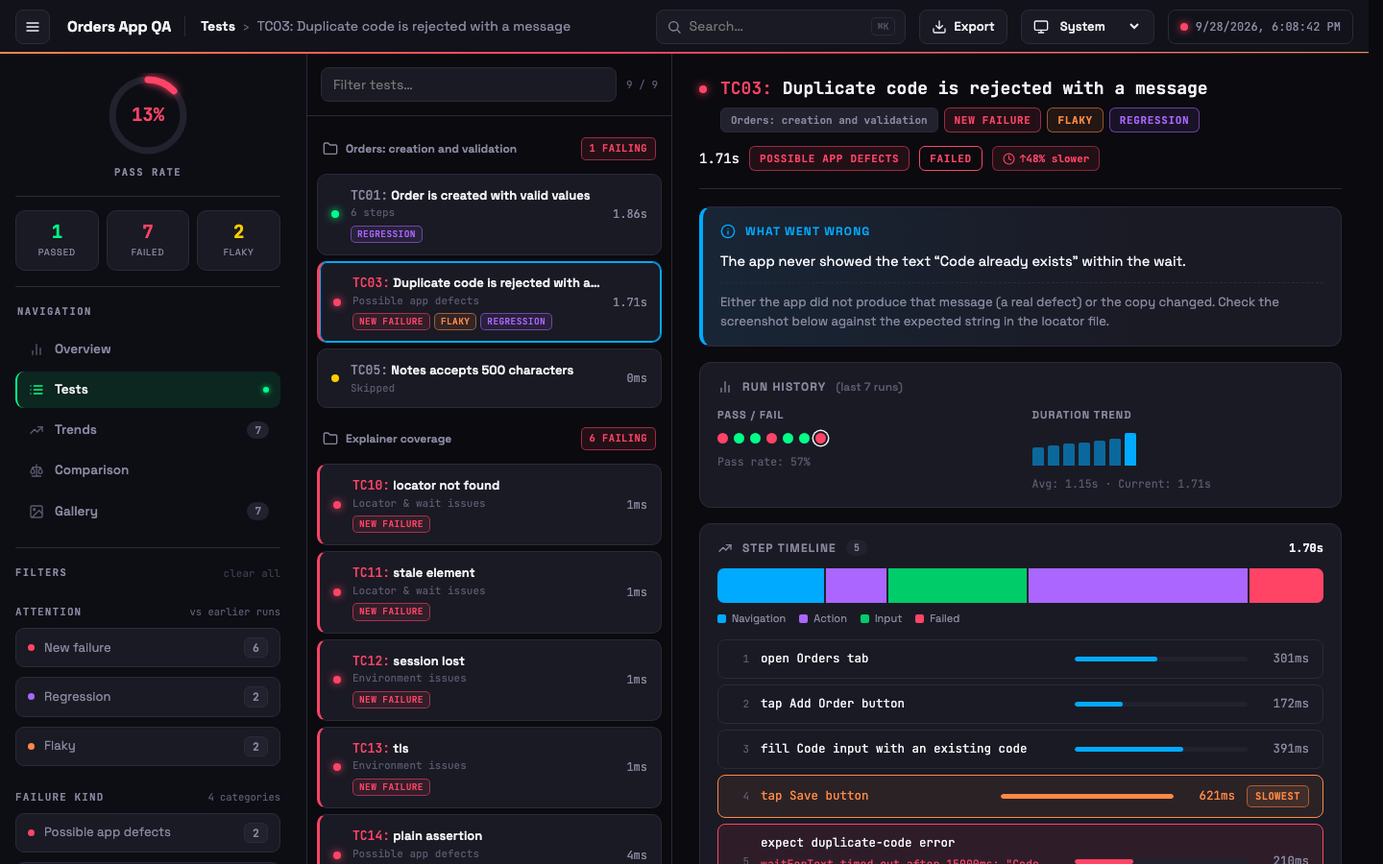
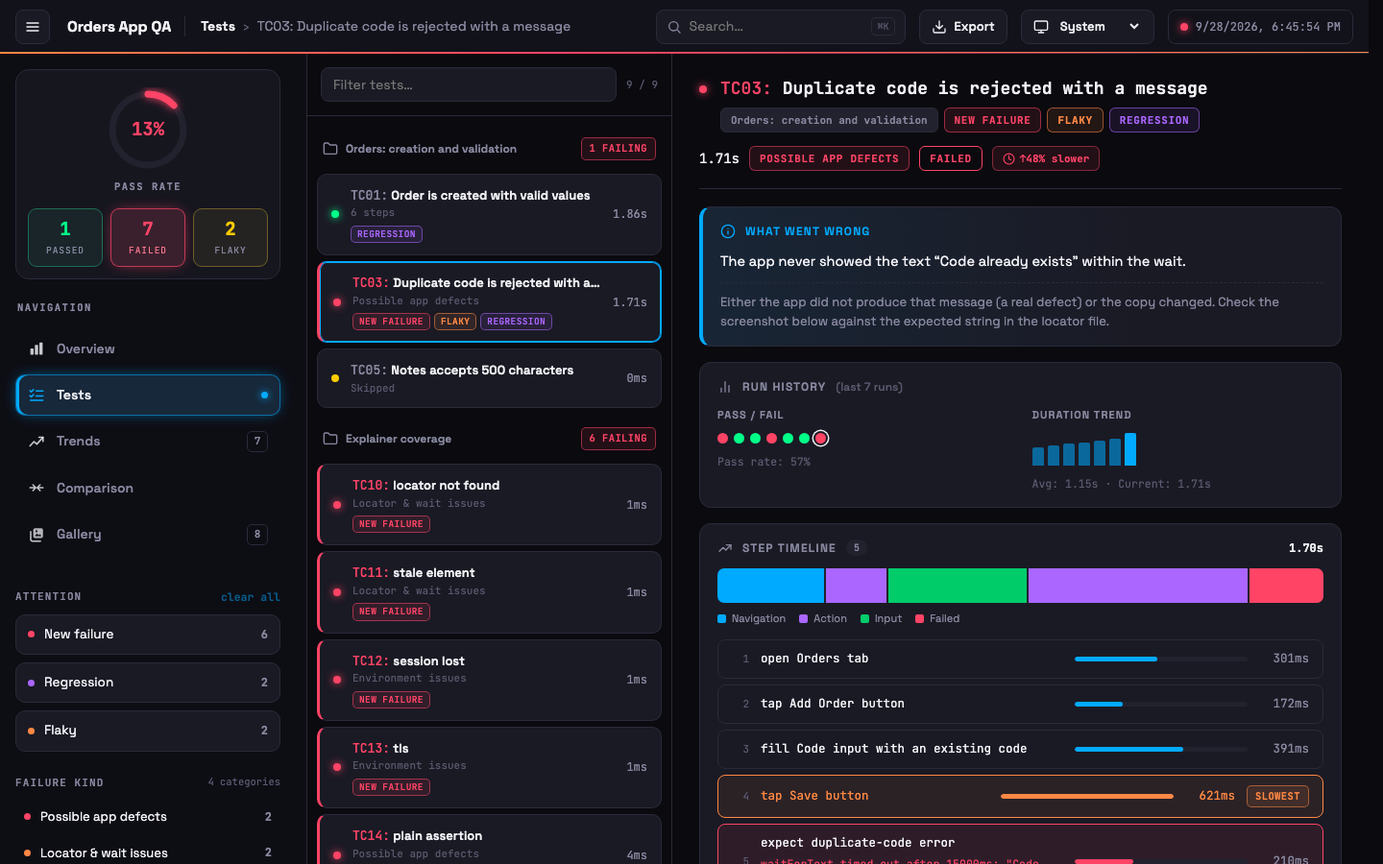
Refresh the sidebar's look
Group the pass ring and the Passed / Failed / Flaky tiles in one card,
tint each tile's border in its colour and make Failed stand out when
there are failures. Give the navigation solid, clearer icons, a blue
outlined and glowing active page, and square count badges. Move "clear
all" onto the first filter group's line and drop the separate Filters
heading. Attention rows stay boxed with plain counts; Failure kind and
Suite groups become lighter borderless rows that only box when hovered
or chosen. Refresh the README screenshots, which all show the sidebar.

diff --git a/test/fixtures/expected-report.html b/test/fixtures/expected-report.html
@@ -66,45 +66,52 @@ kbd{font-family:var(--mono);font-size:10px;border:1px solid var(--border);border
 .side{background:var(--side);border-right:1px solid var(--border);position:sticky;top:var(--top-h);height:calc(100vh - var(--top-h));display:flex;flex-direction:column;min-height:0}
 .side-scroll{flex:1;min-height:0;overflow-y:auto;scrollbar-gutter:stable;padding:0 12px 20px 16px}
 .side .lbl{font-family:var(--mono);font-size:10.5px;font-weight:700;letter-spacing:.14em;color:var(--fg2)}
-.side-ring{display:grid;justify-items:center;gap:8px;padding:20px 0 16px;border-bottom:1px solid var(--border)}
+.side-top{margin:16px 0 4px;padding:16px 12px 12px;border:1px solid var(--border);border-radius:14px;background:color-mix(in srgb,var(--card) 70%,var(--side))}
+.side-ring{display:grid;justify-items:center;gap:8px;padding:2px 0 14px}
 .side-ring .ring{width:88px;height:88px}
 /* navigation */
-.nav{padding:18px 0;border-bottom:1px solid var(--border);display:grid;gap:4px}
+.nav{padding:18px 0 16px;display:grid;gap:5px}
 .nav .lbl{padding:0 2px 8px}
-.nav a{display:flex;align-items:center;gap:11px;padding:9px 12px;border-radius:9px;border-left:2px solid transparent;color:var(--fg2);font-weight:500;font-size:13.5px}
-.nav a .i{color:var(--mut)}
+.nav a{display:flex;align-items:center;gap:12px;padding:10px 12px;border-radius:10px;border:1px solid transparent;color:var(--fg2);font-weight:500;font-size:14px}
+.nav a .i{width:18px;height:18px;color:color-mix(in srgb,var(--fg) 82%,transparent)}
 .nav a:hover{background:var(--hover);color:var(--fg)}
 .nav a span{flex:1}
-.nav a i{font-style:normal;font-family:var(--mono);font-size:11px;padding:1px 8px;border-radius:999px;background:var(--hover);color:var(--fg2)}
-.nav a .navdot{display:none;width:6px;height:6px;border-radius:50%;background:var(--green);box-shadow:0 0 6px var(--green)}
-.nav a.on{background:color-mix(in srgb,var(--green) 10%,transparent);border-left-color:var(--green);color:var(--fg)}
-.nav a.on .i{color:var(--green)}
+.nav a i{font-style:normal;font-family:var(--mono);font-size:11px;min-width:22px;height:22px;display:grid;place-items:center;padding:0 5px;border-radius:5px;border:1px solid var(--border);color:var(--fg2)}
+.nav a .navdot{display:none;width:7px;height:7px;border-radius:50%;background:var(--blue);box-shadow:0 0 8px var(--blue)}
+.nav a.on{background:color-mix(in srgb,var(--blue) 10%,var(--card));border-color:color-mix(in srgb,var(--blue) 55%,transparent);box-shadow:0 0 16px -6px var(--blue),inset 3px 0 0 var(--blue);color:var(--fg)}
+.nav a.on .i{color:var(--blue)}
 .nav a.on i{display:none}.nav a.on .navdot{display:block}
 /* filters */
 .filters{padding:18px 0 4px;display:grid;grid-template-columns:minmax(0,1fr);gap:24px}
 .fgroup{min-width:0}
 .fhead{display:flex;align-items:center;justify-content:space-between}
-.linkbtn{border:0;background:none;color:var(--blue);cursor:pointer;font-family:var(--mono);font-size:11px}
+.linkbtn{border:0;background:none;color:var(--blue);cursor:pointer;font-family:var(--mono);font-size:11.5px;font-weight:600}
 .linkbtn:hover:not(:disabled){text-decoration:underline}
-.linkbtn:disabled{color:var(--mut);cursor:default;opacity:.6}
-.fsub{display:flex;align-items:baseline;justify-content:space-between;margin-bottom:8px}
+.linkbtn:disabled{color:var(--blue);cursor:default;opacity:.5}
+.fsub{display:flex;align-items:center;justify-content:space-between;margin-bottom:10px}
 .fsub small{font-family:var(--mono);font-size:11px;font-weight:500;letter-spacing:.1em;text-transform:uppercase;color:var(--fg2)}
 .fsub span{font-family:var(--mono);font-size:10.5px;color:var(--mut)}
 .sdot{width:7px;height:7px;border-radius:50%;flex:none;background:var(--tone,var(--mut))}
 /* minmax(0,1fr): a long group name must truncate, never widen the column. */
-.frows{display:grid;grid-template-columns:minmax(0,1fr);gap:10px}
-.frow{display:flex;align-items:center;gap:10px;width:100%;padding:9px 12px;border-radius:9px;border:1px solid var(--border);
-background:var(--card);color:var(--fg2);font-size:13px;text-align:left;cursor:pointer;min-width:0}
+.frows{display:grid;grid-template-columns:minmax(0,1fr);gap:8px}
+.frow{display:flex;align-items:center;gap:10px;width:100%;padding:10px 12px;border-radius:10px;border:1px solid var(--border);
+background:var(--card);color:var(--fg);font-size:13.5px;text-align:left;cursor:pointer;min-width:0}
 .frow:hover{border-color:color-mix(in srgb,var(--tone,var(--blue)) 50%,transparent);color:var(--fg);background:var(--hover)}
 .frow .fname{flex:1;min-width:0;overflow:hidden;text-overflow:ellipsis;white-space:nowrap}
-.frow i{font-style:normal;font-family:var(--mono);font-size:11.5px;font-weight:600;padding:1px 8px;border-radius:6px;border:1px solid var(--border);background:var(--hover);color:var(--fg2);flex:none}
+.frow i{font-style:normal;font-family:var(--mono);font-size:12px;font-weight:700;color:var(--fg2);flex:none}
 /* Selected rows change colour only, never weight: bolder text is wider and would reflow the row. */
 .frow.on{border-color:var(--tone,var(--blue));background:color-mix(in srgb,var(--tone,var(--blue)) 10%,var(--card));color:var(--fg)}
 .frow.on .sdot{box-shadow:0 0 0 3px color-mix(in srgb,var(--tone) 30%,transparent)}
-.frow.on i{color:var(--tone,var(--blue));border-color:color-mix(in srgb,var(--tone,var(--blue)) 40%,transparent);background:color-mix(in srgb,var(--tone,var(--blue)) 18%,transparent)}
+.frow.on i{color:var(--tone,var(--blue))}
+.frow.on{box-shadow:0 0 14px -7px var(--tone,var(--blue))}
 .frow.group{--tone:var(--blue)}
 .frow .fic{width:15px;height:15px;color:var(--blue)}
-.frow.group i{color:var(--blue);border-color:color-mix(in srgb,var(--blue) 25%,transparent)}
+.frow.group i{color:var(--fg2)}
+/* plain rows (Failure kind, Suite groups): no box until hovered or chosen */
+.frows:has(.plain){gap:2px}
+.frow.plain{padding:7px 8px;border-color:transparent;background:transparent;font-size:13px;color:var(--fg)}
+.frow.plain:hover{background:var(--hover);border-color:transparent}
+.frow.plain.on{background:color-mix(in srgb,var(--tone,var(--blue)) 10%,transparent);border-color:color-mix(in srgb,var(--tone,var(--blue)) 45%,transparent)}
 /* environment */
 .env{margin-top:22px;padding-top:18px;border-top:1px solid var(--border)}
 .ehead{display:flex;align-items:center;justify-content:space-between;margin-bottom:8px}
@@ -398,13 +405,15 @@ color:var(--tone);border:1px solid color-mix(in srgb,var(--tone) 45%,transparent
 .lightbox .iconbtn{position:absolute;top:16px;right:16px}
 .foot{padding:14px 24px;border-top:1px solid var(--border);font-family:var(--mono);font-size:11px;color:var(--mut);text-align:center}
 /* sidebar tiles */
-.tiles{display:grid;grid-template-columns:repeat(3,1fr);gap:8px;padding:14px 0 16px;border-bottom:1px solid var(--border)}
-.tile{display:grid;justify-items:center;gap:2px;padding:11px 0;border:1px solid var(--border);border-radius:10px;background:var(--card);cursor:pointer}
+.tiles{display:grid;grid-template-columns:repeat(3,1fr);gap:8px}
+.tile{display:grid;justify-items:center;gap:3px;padding:10px 0 9px;border:1px solid color-mix(in srgb,var(--tone) 32%,var(--border));border-radius:9px;background:color-mix(in srgb,var(--tone) 5%,var(--card));cursor:pointer}
+.tile.hot{border-color:color-mix(in srgb,var(--tone) 70%,transparent);background:color-mix(in srgb,var(--tone) 14%,var(--card));box-shadow:0 0 16px -6px var(--tone)}
 .tile:hover:not(:disabled){border-color:var(--tone)}
 .tile:disabled{cursor:default}
 .tile.on{border-color:var(--tone);box-shadow:0 0 14px -5px var(--tone)}
 .tile b{font-family:var(--mono);font-size:19px;line-height:1.2;color:var(--tone)}
-.tile small{font-size:9.5px;letter-spacing:.08em;text-transform:uppercase;color:var(--fg2)}
+.tile small{font-family:var(--mono);font-size:9.5px;letter-spacing:.1em;text-transform:uppercase;color:var(--fg2)}
+.tile.hot small{color:color-mix(in srgb,var(--tone) 70%,var(--fg))}
 /* overview additions */
 .bigrow{display:flex;align-items:center;gap:10px;margin-bottom:10px}.bigrow .big{margin:0}
 .delta{font-family:var(--mono);font-size:12px;font-weight:600;padding:2px 7px;border-radius:5px}
@@ -787,32 +796,29 @@ body.side-collapsed .side{visibility:hidden;overflow:hidden;border-right:0}
 <div class="shell">
 <aside class="side" id="side">
     <div class="side-scroll">
-    <div class="side-ring"><div class="ring red"><svg viewBox="0 0 100 100">
+    <div class="side-top">
+      <div class="side-ring"><div class="ring red"><svg viewBox="0 0 100 100">
     <circle cx="50" cy="50" r="42" class="ring-bg"/>
     <circle cx="50" cy="50" r="42" class="ring-fg" stroke-dasharray="263.9" stroke-dashoffset="229.6" transform="rotate(-90 50 50)"/>
   </svg><div class="ring-mid"><b>13%</b></div></div><small class="lbl">Pass rate</small></div>
-    <div class="tiles"><button class="tile green" data-f="st" data-v="passed"><b>1</b><small>Passed</small></button><button class="tile red" data-f="st" data-v="failed"><b>7</b><small>Failed</small></button><button class="tile yellow" data-f="att" data-v="flaky" disabled><b>0</b><small>Flaky</small></button></div>
-    <nav class="nav"><small class="lbl">Navigation</small>
-      <a href="#overview" data-nav="overview"><svg class="i " viewBox="0 0 24 24" fill="none" stroke="currentColor" stroke-width="2" stroke-linecap="round" stroke-linejoin="round" aria-hidden="true"><path d="M18 20V10M12 20V4M6 20v-6"/></svg><span>Overview</span><em class="navdot"></em></a>
-      <a href="#tests" data-nav="tests"><svg class="i " viewBox="0 0 24 24" fill="none" stroke="currentColor" stroke-width="2" stroke-linecap="round" stroke-linejoin="round" aria-hidden="true"><path d="M8 6h13M8 12h13M8 18h13M3 6h.01M3 12h.01M3 18h.01"/></svg><span>Tests</span><i>9</i><em class="navdot"></em></a>
-      <a href="#trends" data-nav="trends"><svg class="i " viewBox="0 0 24 24" fill="none" stroke="currentColor" stroke-width="2" stroke-linecap="round" stroke-linejoin="round" aria-hidden="true"><path d="M3 17l6-6 4 4 8-8"/><path d="M14 7h7v7"/></svg><span>Trends</span><em class="navdot"></em></a>
-      <a href="#comparison" data-nav="comparison"><svg class="i " viewBox="0 0 24 24" fill="none" stroke="currentColor" stroke-width="2" stroke-linecap="round" stroke-linejoin="round" aria-hidden="true"><path d="M12 3v18M5 21h14M6 7h12M6 7l-3 7a3 3 0 006 0zM18 7l-3 7a3 3 0 006 0z"/></svg><span>Comparison</span><em class="navdot"></em></a>
-      <a href="#gallery" data-nav="gallery"><svg class="i " viewBox="0 0 24 24" fill="none" stroke="currentColor" stroke-width="2" stroke-linecap="round" stroke-linejoin="round" aria-hidden="true"><rect x="3" y="3" width="18" height="18" rx="2"/><circle cx="8.5" cy="8.5" r="1.5"/><path d="M21 15l-5-5L5 21"/></svg><span>Gallery</span><i>7</i><em class="navdot"></em></a>
-    </nav>
-    <div class="filters">
-      <div class="fhead"><small class="lbl">Filters</small><button id="fclear" class="linkbtn" disabled>clear all</button></div>
-      
-      <div class="fgroup"><div class="fsub"><small>Failure kind</small><span>4 categories</span></div>
-        <div class="frows"><button class="frow red" data-f="kind" data-v="app" title="Possible app defects">
-      <span class="sdot"></span><span class="fname">Possible app defects</span><i>2</i></button><button class="frow orange" data-f="kind" data-v="test" title="Locator &amp; wait issues">
-      <span class="sdot"></span><span class="fname">Locator &amp; wait issues</span><i>2</i></button><button class="frow yellow" data-f="kind" data-v="env" title="Environment issues">
-      <span class="sdot"></span><span class="fname">Environment issues</span><i>2</i></button><button class="frow blue" data-f="kind" data-v="unknown" title="Unclassified">
-      <span class="sdot"></span><span class="fname">Unclassified</span><i>1</i></button></div></div>
-      <div class="fgroup"><div class="fsub"><small>Suite groups</small><span>2 groups</span></div>
-        <div class="frows"><button class="frow group" data-f="group" data-v="Orders: creation and validation" title="Orders: creation and validation">
-      <svg class="i fic" viewBox="0 0 24 24" fill="none" stroke="currentColor" stroke-width="2" stroke-linecap="round" stroke-linejoin="round" aria-hidden="true"><path d="M4 20h16a2 2 0 002-2V8a2 2 0 00-2-2h-7.9a2 2 0 01-1.7-.9l-.9-1.3A2 2 0 007.8 3H4a2 2 0 00-2 2v13a2 2 0 002 2z"/></svg><span class="fname">Orders: creation and validation</span><i>3</i></button><button class="frow group" data-f="group" data-v="Explainer coverage" title="Explainer coverage">
-      <svg class="i fic" viewBox="0 0 24 24" fill="none" stroke="currentColor" stroke-width="2" stroke-linecap="round" stroke-linejoin="round" aria-hidden="true"><path d="M4 20h16a2 2 0 002-2V8a2 2 0 00-2-2h-7.9a2 2 0 01-1.7-.9l-.9-1.3A2 2 0 007.8 3H4a2 2 0 00-2 2v13a2 2 0 002 2z"/></svg><span class="fname">Explainer coverage</span><i>6</i></button></div></div>
+      <div class="tiles"><button class="tile green" data-f="st" data-v="passed"><b>1</b><small>Passed</small></button><button class="tile red hot" data-f="st" data-v="failed"><b>7</b><small>Failed</small></button><button class="tile yellow" data-f="att" data-v="flaky" disabled><b>0</b><small>Flaky</small></button></div>
     </div>
+    <nav class="nav"><small class="lbl">Navigation</small>
+      <a href="#overview" data-nav="overview"><svg class="i nv" viewBox="0 0 24 24" aria-hidden="true"><rect x="3.5" y="12" width="4.5" height="8.5" rx="1" fill="currentColor"/><rect x="9.75" y="7" width="4.5" height="13.5" rx="1" fill="currentColor"/><rect x="16" y="3.5" width="4.5" height="17" rx="1" fill="currentColor"/></svg><span>Overview</span><em class="navdot"></em></a>
+      <a href="#tests" data-nav="tests"><svg class="i nv" viewBox="0 0 24 24" fill="none" stroke="currentColor" stroke-width="2" stroke-linecap="round" stroke-linejoin="round" aria-hidden="true"><path d="M3 6.5l1.8 1.8L8 5M3 13.5l1.8 1.8L8 12"/><path d="M11.5 7h9.5M11.5 14h9.5M3.5 20h17.5"/></svg><span>Tests</span><i>9</i><em class="navdot"></em></a>
+      <a href="#trends" data-nav="trends"><svg class="i nv" viewBox="0 0 24 24" fill="none" stroke="currentColor" stroke-width="2.2" stroke-linecap="round" stroke-linejoin="round" aria-hidden="true"><path d="M3 18l5.5-6 4 3.5L21 6"/><path d="M15.5 6H21v5.5"/></svg><span>Trends</span><em class="navdot"></em></a>
+      <a href="#comparison" data-nav="comparison"><svg class="i nv" viewBox="0 0 24 24" fill="none" stroke="currentColor" stroke-width="2" stroke-linecap="round" stroke-linejoin="round" aria-hidden="true"><path d="M3 12h7M7 8l4 4-4 4"/><path d="M21 12h-7M17 8l-4 4 4 4"/></svg><span>Comparison</span><em class="navdot"></em></a>
+      <a href="#gallery" data-nav="gallery"><svg class="i nv" viewBox="0 0 24 24" aria-hidden="true"><path d="M4 7.5v11A2.5 2.5 0 006.5 21h11" fill="none" stroke="currentColor" stroke-width="2" stroke-linecap="round"/><rect x="7.5" y="3" width="13.5" height="13.5" rx="2.5" fill="currentColor" opacity=".9"/><path d="M9.5 14l3.2-3.6 2.3 2.3 1.5-1.6 2.5 2.9z" fill="var(--side)"/><circle cx="12" cy="7.2" r="1.4" fill="var(--side)"/></svg><span>Gallery</span><i>7</i><em class="navdot"></em></a>
+    </nav>
+    <div class="filters"><div class="fgroup"><div class="fsub"><small>Failure kind</small><button id="fclear" class="linkbtn" disabled>clear all</button></div>
+        <div class="frows"><button class="frow red plain" data-f="kind" data-v="app" title="Possible app defects">
+      <span class="sdot"></span><span class="fname">Possible app defects</span><i>2</i></button><button class="frow orange plain" data-f="kind" data-v="test" title="Locator &amp; wait issues">
+      <span class="sdot"></span><span class="fname">Locator &amp; wait issues</span><i>2</i></button><button class="frow yellow plain" data-f="kind" data-v="env" title="Environment issues">
+      <span class="sdot"></span><span class="fname">Environment issues</span><i>2</i></button><button class="frow blue plain" data-f="kind" data-v="unknown" title="Unclassified">
+      <span class="sdot"></span><span class="fname">Unclassified</span><i>1</i></button></div></div><div class="fgroup"><div class="fsub"><small>Suite groups</small><span>2 groups</span></div>
+        <div class="frows"><button class="frow group plain" data-f="group" data-v="Orders: creation and validation" title="Orders: creation and validation">
+      <svg class="i fic" viewBox="0 0 24 24" fill="none" stroke="currentColor" stroke-width="2" stroke-linecap="round" stroke-linejoin="round" aria-hidden="true"><path d="M4 20h16a2 2 0 002-2V8a2 2 0 00-2-2h-7.9a2 2 0 01-1.7-.9l-.9-1.3A2 2 0 007.8 3H4a2 2 0 00-2 2v13a2 2 0 002 2z"/></svg><span class="fname">Orders: creation and validation</span><i>3</i></button><button class="frow group plain" data-f="group" data-v="Explainer coverage" title="Explainer coverage">
+      <svg class="i fic" viewBox="0 0 24 24" fill="none" stroke="currentColor" stroke-width="2" stroke-linecap="round" stroke-linejoin="round" aria-hidden="true"><path d="M4 20h16a2 2 0 002-2V8a2 2 0 00-2-2h-7.9a2 2 0 01-1.7-.9l-.9-1.3A2 2 0 007.8 3H4a2 2 0 00-2 2v13a2 2 0 002 2z"/></svg><span class="fname">Explainer coverage</span><i>6</i></button></div></div></div>
     <div class="env"><div class="ehead"><small class="lbl"><svg class="i " viewBox="0 0 24 24" fill="none" stroke="currentColor" stroke-width="2" stroke-linecap="round" stroke-linejoin="round" aria-hidden="true"><rect x="5" y="5" width="14" height="14" rx="2"/><rect x="9" y="9" width="6" height="6"/><path d="M9 2v3M15 2v3M9 19v3M15 19v3M2 9h3M2 15h3M19 9h3M19 15h3"/></svg>Environment</small><span class="edot" title="Read from the live session"></span></div>
       <div class="erow"><span>Platform</span><b class="val" title="Android / iOS"><svg class="i os" viewBox="0 0 24 24" fill="currentColor" aria-hidden="true"><path d="M17.52 15.34a1 1 0 110-2 1 1 0 010 2m-11.05 0a1 1 0 110-2 1 1 0 010 2m11.4-6.02l2-3.46a.42.42 0 00-.72-.42l-2.02 3.5A12.3 12.3 0 0012 8.08c-1.85 0-3.59.33-5.14.87l-2.02-3.5a.42.42 0 00-.72.41l2 3.46A11.9 11.9 0 000 18.76h24a11.9 11.9 0 00-6.12-9.44"/></svg>Android / iOS</b></div><div class="erow"><span>Device</span><b class="val" title="Real or emulator">Real or emulator</b></div><div class="erow"><span>Framework</span><b class="val blue" title="Auto-detected">Auto-detected</b></div><div class="erow"><span>App</span><b class="val green" title="com.example.app">com.example.app</b></div></div>
     </div>

diff --git a/src/render.js b/src/render.js
@@ -119,6 +119,15 @@ const GI = {
   skip: '<svg class="gicon" viewBox="8 8 48 48" aria-hidden="true"><rect class="ic-body" x="10" y="10" width="44" height="44" rx="14"/><rect class="ic-inner" x="13.5" y="13.5" width="37" height="37" rx="11"/><path class="ic-mark" d="M24 32H40"/></svg>',
 };
 
+/** Navigation icons, after the sidebar design: solid shapes read better at 18px. */
+const NAVI = {
+  overview: '<svg class="i nv" viewBox="0 0 24 24" aria-hidden="true"><rect x="3.5" y="12" width="4.5" height="8.5" rx="1" fill="currentColor"/><rect x="9.75" y="7" width="4.5" height="13.5" rx="1" fill="currentColor"/><rect x="16" y="3.5" width="4.5" height="17" rx="1" fill="currentColor"/></svg>',
+  tests: '<svg class="i nv" viewBox="0 0 24 24" fill="none" stroke="currentColor" stroke-width="2" stroke-linecap="round" stroke-linejoin="round" aria-hidden="true"><path d="M3 6.5l1.8 1.8L8 5M3 13.5l1.8 1.8L8 12"/><path d="M11.5 7h9.5M11.5 14h9.5M3.5 20h17.5"/></svg>',
+  trends: '<svg class="i nv" viewBox="0 0 24 24" fill="none" stroke="currentColor" stroke-width="2.2" stroke-linecap="round" stroke-linejoin="round" aria-hidden="true"><path d="M3 18l5.5-6 4 3.5L21 6"/><path d="M15.5 6H21v5.5"/></svg>',
+  comparison: '<svg class="i nv" viewBox="0 0 24 24" fill="none" stroke="currentColor" stroke-width="2" stroke-linecap="round" stroke-linejoin="round" aria-hidden="true"><path d="M3 12h7M7 8l4 4-4 4"/><path d="M21 12h-7M17 8l-4 4 4 4"/></svg>',
+  gallery: '<svg class="i nv" viewBox="0 0 24 24" aria-hidden="true"><path d="M4 7.5v11A2.5 2.5 0 006.5 21h11" fill="none" stroke="currentColor" stroke-width="2" stroke-linecap="round"/><rect x="7.5" y="3" width="13.5" height="13.5" rx="2.5" fill="currentColor" opacity=".9"/><path d="M9.5 14l3.2-3.6 2.3 2.3 1.5-1.6 2.5 2.9z" fill="var(--side)"/><circle cx="12" cy="7.2" r="1.4" fill="var(--side)"/></svg>',
+};
+
 /** Filled glyph: at 13px the stroked outline reads as a padlock. */
 const ANDROID = '<svg class="i os" viewBox="0 0 24 24" fill="currentColor" aria-hidden="true"><path d="M17.52 15.34a1 1 0 110-2 1 1 0 010 2m-11.05 0a1 1 0 110-2 1 1 0 010 2m11.4-6.02l2-3.46a.42.42 0 00-.72-.42l-2.02 3.5A12.3 12.3 0 0012 8.08c-1.85 0-3.59.33-5.14.87l-2.02-3.5a.42.42 0 00-.72.41l2 3.46A11.9 11.9 0 000 18.76h24a11.9 11.9 0 00-6.12-9.44"/></svg>';
 
@@ -899,7 +908,7 @@ function page(c, options) {
 
   // ── sidebar ───────────────────────────────────────────────────────────
   const plural = (n, one, many) => `${n} ${n === 1 ? one : many}`;
-  const rowChip = (f, v, label, n, lead, tone = '') => `<button class="frow ${tone}" data-f="${f}" data-v="${esc(v)}" title="${esc(label)}">
+  const rowChip = (f, v, label, n, lead, tone = '', plain = false) => `<button class="frow ${tone}${plain ? ' plain' : ''}" data-f="${f}" data-v="${esc(v)}" title="${esc(label)}">
       ${lead}<span class="fname">${esc(label)}</span><i>${n}</i></button>`;
   const osIcon = (v = '') => /android/i.test(v) ? ANDROID
     : /ios|iphone|ipad/i.test(v) ? icon(I.apple, 'os') : '';
@@ -908,27 +917,30 @@ function page(c, options) {
     return `<div class="erow"><span>${esc(k)}</span><b class="${cls}" title="${esc(v)}">${k === 'Platform' ? osIcon(v) : ''}${esc(v)}</b></div>`;
   };
   const attn = [['new', c.newFailures.length], ['slow', c.slower.length], ['flaky', c.flaky.length], ['fixed', c.fixed.length]].filter(([, n]) => n);
-  const tile = (n, label, tone, f, v) => `<button class="tile ${tone}" data-f="${f}" data-v="${v}"${n ? '' : ' disabled'}><b>${n}</b><small>${label}</small></button>`;
+  // A tile is emphasised when it counts something that needs attention.
+  const tile = (n, label, tone, f, v, hot = false) => `<button class="tile ${tone}${hot && n ? ' hot' : ''}" data-f="${f}" data-v="${v}"${n ? '' : ' disabled'}><b>${n}</b><small>${label}</small></button>`;
+  const clearBtn = '<button id="fclear" class="linkbtn" disabled>clear all</button>';
+  const fgroups = [];
+  if (attn.length) fgroups.push(['Attention', attn.map(([a, n]) => rowChip('att', a, ATT[a][0], n, '<span class="sdot"></span>', ATT[a][1])).join(''), 'vs earlier runs']);
+  if (byKind.size) fgroups.push(['Failure kind', [...byKind.entries()].map(([k, l]) => rowChip('kind', k, KINDS[k].label, l.length, '<span class="sdot"></span>', KINDS[k].tone, true)).join(''), plural(byKind.size, 'category', 'categories')]);
+  if (groups.length > 1) fgroups.push(['Suite groups', groups.map((g) => rowChip('group', g, g, tests.filter((t) => t.groupName === g).length, icon(I.folder, 'fic'), 'group', true)).join(''), plural(groups.length, 'group', 'groups')]);
+  // "clear all" sits on the first group's line, where the eye already is.
+  const filtersHtml = fgroups.map(([title, rows, note], i) => `<div class="fgroup"><div class="fsub"><small>${title}</small>${i === 0 ? clearBtn : `<span>${note}</span>`}</div>
+        <div class="frows">${rows}</div></div>`).join('') || `<span hidden>${clearBtn}</span>`;
   const sidebar = `<aside class="side" id="side">
     <div class="side-scroll">
-    <div class="side-ring">${ring(passRate, allGreen ? 'green' : passRate >= 70 ? 'yellow' : 'red', `${passRate}%`)}<small class="lbl">Pass rate</small></div>
-    <div class="tiles">${tile(passed, 'Passed', 'green', 'st', 'passed')}${tile(failed, 'Failed', 'red', 'st', 'failed')}${tile(c.flaky.length, 'Flaky', 'yellow', 'att', 'flaky')}</div>
-    <nav class="nav"><small class="lbl">Navigation</small>
-      <a href="#overview" data-nav="overview">${icon(I.chart)}<span>Overview</span><em class="navdot"></em></a>
-      <a href="#tests" data-nav="tests">${icon(I.list)}<span>Tests</span><i>${total}</i><em class="navdot"></em></a>
-      <a href="#trends" data-nav="trends">${icon(I.trend)}<span>Trends</span>${hasHistory ? `<i>${series.length}</i>` : ''}<em class="navdot"></em></a>
-      <a href="#comparison" data-nav="comparison">${icon(I.scale)}<span>Comparison</span><em class="navdot"></em></a>
-      <a href="#gallery" data-nav="gallery">${icon(I.image)}<span>Gallery</span><i>${media.length}</i><em class="navdot"></em></a>
-    </nav>
-    <div class="filters">
-      <div class="fhead"><small class="lbl">Filters</small><button id="fclear" class="linkbtn" disabled>clear all</button></div>
-      ${attn.length ? `<div class="fgroup"><div class="fsub"><small>Attention</small><span>vs earlier runs</span></div>
-        <div class="frows">${attn.map(([a, n]) => rowChip('att', a, ATT[a][0], n, '<span class="sdot"></span>', ATT[a][1])).join('')}</div></div>` : ''}
-      ${byKind.size ? `<div class="fgroup"><div class="fsub"><small>Failure kind</small><span>${plural(byKind.size, 'category', 'categories')}</span></div>
-        <div class="frows">${[...byKind.entries()].map(([k, l]) => rowChip('kind', k, KINDS[k].label, l.length, '<span class="sdot"></span>', KINDS[k].tone)).join('')}</div></div>` : ''}
-      ${groups.length > 1 ? `<div class="fgroup"><div class="fsub"><small>Suite groups</small><span>${plural(groups.length, 'group', 'groups')}</span></div>
-        <div class="frows">${groups.map((g) => rowChip('group', g, g, tests.filter((t) => t.groupName === g).length, icon(I.folder, 'fic'), 'group')).join('')}</div></div>` : ''}
+    <div class="side-top">
+      <div class="side-ring">${ring(passRate, allGreen ? 'green' : passRate >= 70 ? 'yellow' : 'red', `${passRate}%`)}<small class="lbl">Pass rate</small></div>
+      <div class="tiles">${tile(passed, 'Passed', 'green', 'st', 'passed')}${tile(failed, 'Failed', 'red', 'st', 'failed', true)}${tile(c.flaky.length, 'Flaky', 'yellow', 'att', 'flaky')}</div>
     </div>
+    <nav class="nav"><small class="lbl">Navigation</small>
+      <a href="#overview" data-nav="overview">${NAVI.overview}<span>Overview</span><em class="navdot"></em></a>
+      <a href="#tests" data-nav="tests">${NAVI.tests}<span>Tests</span><i>${total}</i><em class="navdot"></em></a>
+      <a href="#trends" data-nav="trends">${NAVI.trends}<span>Trends</span>${hasHistory ? `<i>${series.length}</i>` : ''}<em class="navdot"></em></a>
+      <a href="#comparison" data-nav="comparison">${NAVI.comparison}<span>Comparison</span><em class="navdot"></em></a>
+      <a href="#gallery" data-nav="gallery">${NAVI.gallery}<span>Gallery</span><i>${media.length}</i><em class="navdot"></em></a>
+    </nav>
+    <div class="filters">${filtersHtml}</div>
     <div class="env"><div class="ehead"><small class="lbl">${icon(I.chip)}Environment</small><span class="edot${ctxEntries.length ? '' : ' off'}" title="${ctxEntries.length ? 'Read from the live session' : 'No session recorded'}"></span></div>
       ${ctxEntries.length ? ctxEntries.map(envRow).join('') : `<p class="enone">No device or app recorded for this run. Call <code>recordSession(driver)</code> after the session starts, or pass <code>context</code>.</p>`}</div>
     </div>
@@ -1110,45 +1122,52 @@ kbd{font-family:var(--mono);font-size:10px;border:1px solid var(--border);border
 .side{background:var(--side);border-right:1px solid var(--border);position:sticky;top:var(--top-h);height:calc(100vh - var(--top-h));display:flex;flex-direction:column;min-height:0}
 .side-scroll{flex:1;min-height:0;overflow-y:auto;scrollbar-gutter:stable;padding:0 12px 20px 16px}
 .side .lbl{font-family:var(--mono);font-size:10.5px;font-weight:700;letter-spacing:.14em;color:var(--fg2)}
-.side-ring{display:grid;justify-items:center;gap:8px;padding:20px 0 16px;border-bottom:1px solid var(--border)}
+.side-top{margin:16px 0 4px;padding:16px 12px 12px;border:1px solid var(--border);border-radius:14px;background:color-mix(in srgb,var(--card) 70%,var(--side))}
+.side-ring{display:grid;justify-items:center;gap:8px;padding:2px 0 14px}
 .side-ring .ring{width:88px;height:88px}
 /* navigation */
-.nav{padding:18px 0;border-bottom:1px solid var(--border);display:grid;gap:4px}
+.nav{padding:18px 0 16px;display:grid;gap:5px}
 .nav .lbl{padding:0 2px 8px}
-.nav a{display:flex;align-items:center;gap:11px;padding:9px 12px;border-radius:9px;border-left:2px solid transparent;color:var(--fg2);font-weight:500;font-size:13.5px}
-.nav a .i{color:var(--mut)}
+.nav a{display:flex;align-items:center;gap:12px;padding:10px 12px;border-radius:10px;border:1px solid transparent;color:var(--fg2);font-weight:500;font-size:14px}
+.nav a .i{width:18px;height:18px;color:color-mix(in srgb,var(--fg) 82%,transparent)}
 .nav a:hover{background:var(--hover);color:var(--fg)}
 .nav a span{flex:1}
-.nav a i{font-style:normal;font-family:var(--mono);font-size:11px;padding:1px 8px;border-radius:999px;background:var(--hover);color:var(--fg2)}
-.nav a .navdot{display:none;width:6px;height:6px;border-radius:50%;background:var(--green);box-shadow:0 0 6px var(--green)}
-.nav a.on{background:color-mix(in srgb,var(--green) 10%,transparent);border-left-color:var(--green);color:var(--fg)}
-.nav a.on .i{color:var(--green)}
+.nav a i{font-style:normal;font-family:var(--mono);font-size:11px;min-width:22px;height:22px;display:grid;place-items:center;padding:0 5px;border-radius:5px;border:1px solid var(--border);color:var(--fg2)}
+.nav a .navdot{display:none;width:7px;height:7px;border-radius:50%;background:var(--blue);box-shadow:0 0 8px var(--blue)}
+.nav a.on{background:color-mix(in srgb,var(--blue) 10%,var(--card));border-color:color-mix(in srgb,var(--blue) 55%,transparent);box-shadow:0 0 16px -6px var(--blue),inset 3px 0 0 var(--blue);color:var(--fg)}
+.nav a.on .i{color:var(--blue)}
 .nav a.on i{display:none}.nav a.on .navdot{display:block}
 /* filters */
 .filters{padding:18px 0 4px;display:grid;grid-template-columns:minmax(0,1fr);gap:24px}
 .fgroup{min-width:0}
 .fhead{display:flex;align-items:center;justify-content:space-between}
-.linkbtn{border:0;background:none;color:var(--blue);cursor:pointer;font-family:var(--mono);font-size:11px}
+.linkbtn{border:0;background:none;color:var(--blue);cursor:pointer;font-family:var(--mono);font-size:11.5px;font-weight:600}
 .linkbtn:hover:not(:disabled){text-decoration:underline}
-.linkbtn:disabled{color:var(--mut);cursor:default;opacity:.6}
-.fsub{display:flex;align-items:baseline;justify-content:space-between;margin-bottom:8px}
+.linkbtn:disabled{color:var(--blue);cursor:default;opacity:.5}
+.fsub{display:flex;align-items:center;justify-content:space-between;margin-bottom:10px}
 .fsub small{font-family:var(--mono);font-size:11px;font-weight:500;letter-spacing:.1em;text-transform:uppercase;color:var(--fg2)}
 .fsub span{font-family:var(--mono);font-size:10.5px;color:var(--mut)}
 .sdot{width:7px;height:7px;border-radius:50%;flex:none;background:var(--tone,var(--mut))}
 /* minmax(0,1fr): a long group name must truncate, never widen the column. */
-.frows{display:grid;grid-template-columns:minmax(0,1fr);gap:10px}
-.frow{display:flex;align-items:center;gap:10px;width:100%;padding:9px 12px;border-radius:9px;border:1px solid var(--border);
-background:var(--card);color:var(--fg2);font-size:13px;text-align:left;cursor:pointer;min-width:0}
+.frows{display:grid;grid-template-columns:minmax(0,1fr);gap:8px}
+.frow{display:flex;align-items:center;gap:10px;width:100%;padding:10px 12px;border-radius:10px;border:1px solid var(--border);
+background:var(--card);color:var(--fg);font-size:13.5px;text-align:left;cursor:pointer;min-width:0}
 .frow:hover{border-color:color-mix(in srgb,var(--tone,var(--blue)) 50%,transparent);color:var(--fg);background:var(--hover)}
 .frow .fname{flex:1;min-width:0;overflow:hidden;text-overflow:ellipsis;white-space:nowrap}
-.frow i{font-style:normal;font-family:var(--mono);font-size:11.5px;font-weight:600;padding:1px 8px;border-radius:6px;border:1px solid var(--border);background:var(--hover);color:var(--fg2);flex:none}
+.frow i{font-style:normal;font-family:var(--mono);font-size:12px;font-weight:700;color:var(--fg2);flex:none}
 /* Selected rows change colour only, never weight: bolder text is wider and would reflow the row. */
 .frow.on{border-color:var(--tone,var(--blue));background:color-mix(in srgb,var(--tone,var(--blue)) 10%,var(--card));color:var(--fg)}
 .frow.on .sdot{box-shadow:0 0 0 3px color-mix(in srgb,var(--tone) 30%,transparent)}
-.frow.on i{color:var(--tone,var(--blue));border-color:color-mix(in srgb,var(--tone,var(--blue)) 40%,transparent);background:color-mix(in srgb,var(--tone,var(--blue)) 18%,transparent)}
+.frow.on i{color:var(--tone,var(--blue))}
+.frow.on{box-shadow:0 0 14px -7px var(--tone,var(--blue))}
 .frow.group{--tone:var(--blue)}
 .frow .fic{width:15px;height:15px;color:var(--blue)}
-.frow.group i{color:var(--blue);border-color:color-mix(in srgb,var(--blue) 25%,transparent)}
+.frow.group i{color:var(--fg2)}
+/* plain rows (Failure kind, Suite groups): no box until hovered or chosen */
+.frows:has(.plain){gap:2px}
+.frow.plain{padding:7px 8px;border-color:transparent;background:transparent;font-size:13px;color:var(--fg)}
+.frow.plain:hover{background:var(--hover);border-color:transparent}
+.frow.plain.on{background:color-mix(in srgb,var(--tone,var(--blue)) 10%,transparent);border-color:color-mix(in srgb,var(--tone,var(--blue)) 45%,transparent)}
 /* environment */
 .env{margin-top:22px;padding-top:18px;border-top:1px solid var(--border)}
 .ehead{display:flex;align-items:center;justify-content:space-between;margin-bottom:8px}
@@ -1442,13 +1461,15 @@ color:var(--tone);border:1px solid color-mix(in srgb,var(--tone) 45%,transparent
 .lightbox .iconbtn{position:absolute;top:16px;right:16px}
 .foot{padding:14px 24px;border-top:1px solid var(--border);font-family:var(--mono);font-size:11px;color:var(--mut);text-align:center}
 /* sidebar tiles */
-.tiles{display:grid;grid-template-columns:repeat(3,1fr);gap:8px;padding:14px 0 16px;border-bottom:1px solid var(--border)}
-.tile{display:grid;justify-items:center;gap:2px;padding:11px 0;border:1px solid var(--border);border-radius:10px;background:var(--card);cursor:pointer}
+.tiles{display:grid;grid-template-columns:repeat(3,1fr);gap:8px}
+.tile{display:grid;justify-items:center;gap:3px;padding:10px 0 9px;border:1px solid color-mix(in srgb,var(--tone) 32%,var(--border));border-radius:9px;background:color-mix(in srgb,var(--tone) 5%,var(--card));cursor:pointer}
+.tile.hot{border-color:color-mix(in srgb,var(--tone) 70%,transparent);background:color-mix(in srgb,var(--tone) 14%,var(--card));box-shadow:0 0 16px -6px var(--tone)}
 .tile:hover:not(:disabled){border-color:var(--tone)}
 .tile:disabled{cursor:default}
 .tile.on{border-color:var(--tone);box-shadow:0 0 14px -5px var(--tone)}
 .tile b{font-family:var(--mono);font-size:19px;line-height:1.2;color:var(--tone)}
-.tile small{font-size:9.5px;letter-spacing:.08em;text-transform:uppercase;color:var(--fg2)}
+.tile small{font-family:var(--mono);font-size:9.5px;letter-spacing:.1em;text-transform:uppercase;color:var(--fg2)}
+.tile.hot small{color:color-mix(in srgb,var(--tone) 70%,var(--fg))}
 /* overview additions */
 .bigrow{display:flex;align-items:center;gap:10px;margin-bottom:10px}.bigrow .big{margin:0}
 .delta{font-family:var(--mono);font-size:12px;font-weight:600;padding:2px 7px;border-radius:5px}

diff --git a/CHANGELOG.md b/CHANGELOG.md
@@ -19,6 +19,11 @@ Will ship as **0.2.0** (already set in `package.json`): screen recordings are a 
   REC pane side by side, then a compact list with View fullscreen and Watch
   replay, both opening the fullscreen viewer. A kept recording of a passed
   test appears too, but only one made during this run.
+- Sidebar refresh: the pass ring and the Passed / Failed / Flaky tiles share
+  one card, with tiles tinted in their colour (Failed stands out when there
+  are failures); new navigation icons and a blue outlined active page with
+  square count badges; "clear all" sits on the first filter group's line;
+  Failure kind and Suite groups are lighter, borderless rows.
 - README: install command at the top, then a numbered "Screenshots" section
   (overview, quality gates and quarantine, test detail, trends, comparison,
   light theme), each under its own heading and linked from GitHub so they
